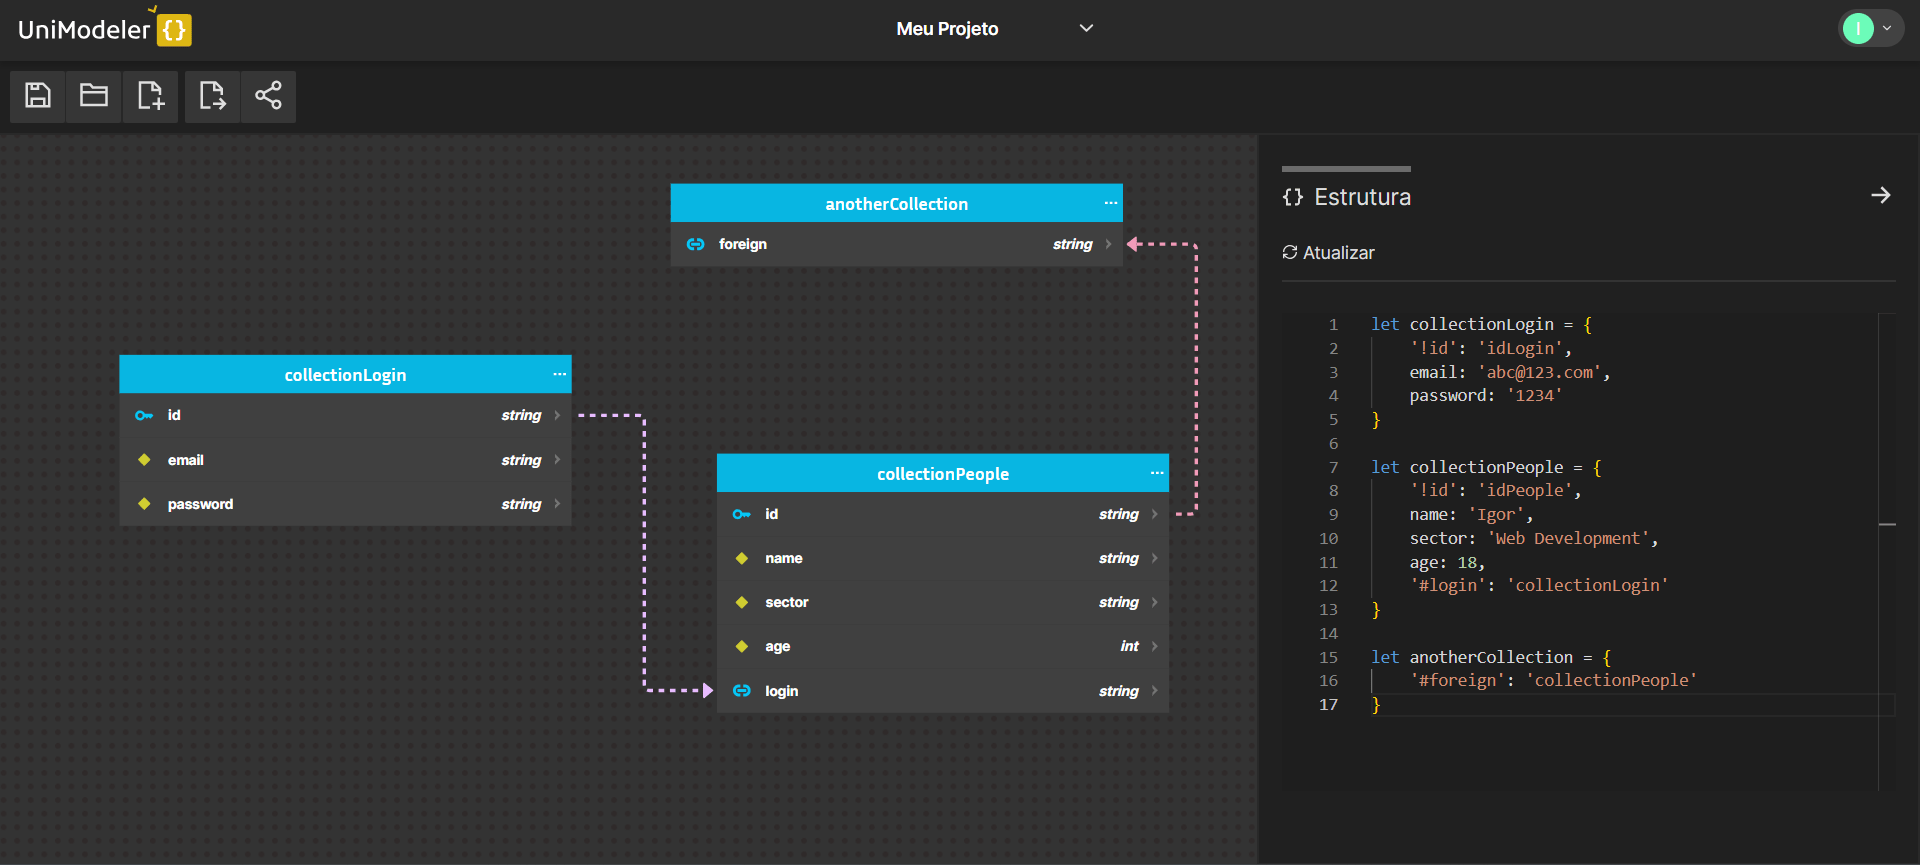
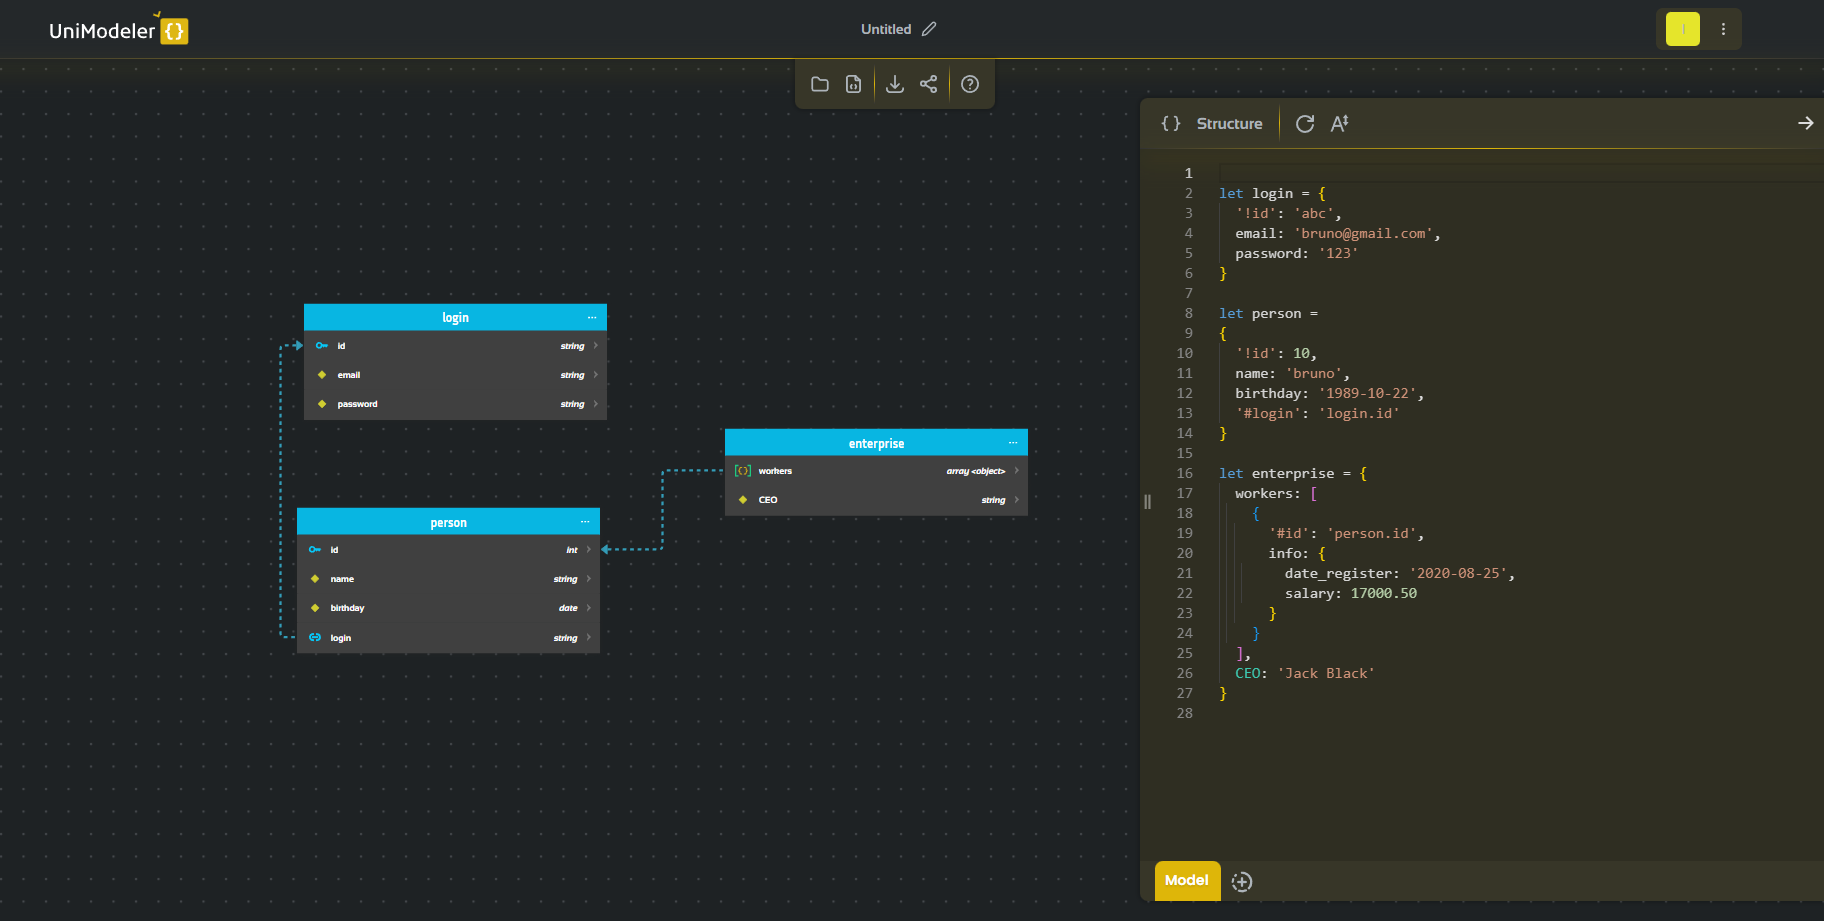
atualizando informações

diff --git a/src/data/about-me-info/sections/professional/content/education/content.ts b/src/data/about-me-info/sections/professional/content/education/content.ts
@@ -6,15 +6,15 @@ const EducationContent: LanguageContent = {
         p1: "Desde o Ensino Fundamental, tenho desenvolvido gosto pela Matemática e pela Lógica. Durante meu ensino médio na E.E. Laerte Ramos de Carvalho, conquistei duas medalhas de bronze nas Olimpíadas Brasileiras de Matemática (1º e 3º anos).",
         p2: "Isto me motivou a buscar aprender a respeito da área de Computação, que sempre me interessou, pesquisando e fazendo cursos online como o CS50, o curso introdutório de Ciência da Computação de Harvard.",
         p3: "No terceiro ano do ensino médio, busquei ampliar meu conhecimento em programação por meio do curso de informática do Instituto Social Nossa Senhora de Fátima. Lá, aprendi a desenvolver sites e APIs, adquirindo conhecimentos fundamentais do desenvolvimento web.",
-        p4: "Atualmente, estou em busca de uma formação acadêmica que consolide e expanda meu conhecimento em desenvolvimento de software e das bases da Ciência da Computação. Para tanto, ingressei no curso de Análise e Desenvolvimento de Sistemas na Fatec, com previsão de término para agosto/2027." 
+        p4: "A fim de adquirir uma formação acadêmica sólida no mundo da tecnologia, em 2025 ingressei no curso de Ciências da Computação na Universidade de São Paulo, com previsão de término para dezembro/2028." 
     },
 
     en_us: {
         title: "Education",
-        p1: "Since elementary school, I have developed a liking for Mathematics and Logic. During my high school years at E.E. Laerte Ramos de Carvalho, I earned two bronze medals in the Brazilian Mathematics Olympiad (1st and 3rd years)",
-        p2: "This motivated me to pursue learning about the field of Computer Science, which has always interested me, by researching and taking online courses such as CS50, Harvard's introductory course in Computer Science.",
-        p3: "In the third year of high school, I sought to expand my programming knowledge through the computer course at Instituto Social Nossa Senhora de Fátima. There, I learned to develop websites and APIs, acquiring fundamental knowledge on web development.",
-        p4: "Currently, I am seeking an academic education that consolidates and expands my knowledge in software development and in the Computer Science foundations. To achieve this, I ingressed the Systems Analysis and Development course at Fatec, with completion prediction to august/2027." 
+        p1: "Since elementary school, I have developed a liking for Mathematics and Logic. During my high school years at E.E. Laerte Ramos de Carvalho, I earned two bronze medals in the Brazilian Mathematics Olympiad (1st and 3rd years).",
+        p2: "This motivated me to seek learning about the field of Computing, which has always interested me, by researching and taking online courses such as CS50, Harvard's introductory Computer Science course.",
+        p3: "In the third year of high school, I sought to expand my programming knowledge through the computer course at Instituto Social Nossa Senhora de Fátima. There, I learned to develop websites and APIs, acquiring fundamental knowledge of web development.",
+        p4: "In order to acquire a solid academic background in technology, in 2025 I enrolled in the Computer Science course at the University of São Paulo, with an expected graduation date of December 2028."
     }
 }
 

diff --git a/src/pages/home/index.scss b/src/pages/home/index.scss
@@ -40,7 +40,7 @@
             display: flex;
             flex-direction: column;
             text-align: left;
-            color: #E5E9F0;
+            color: #e5e9f0;
 
             p {
                 font-size: 18px;
@@ -52,9 +52,30 @@
                 font-weight: 400;
             }
 
-            h2 {
-                font-size: 32px;
-                color: #4D5BCE;
+            table {
+                max-width: 600px;
+
+                td:first-child {
+                    text-align: end;
+                    vertical-align: top;
+                    padding-right: 5px;
+                }
+
+                .title1 {
+                    font-size: 32px;
+                    color: #4d5bce;
+                    font-weight: 600;
+                    
+                    td {
+                        padding-bottom: 10px;
+                    }
+                }
+
+                .title2 {
+                    color: #919191;
+                    font-weight: 600;
+                    font-size: 18px;
+                }
             }
 
             .comment {
@@ -72,15 +93,15 @@
                 }
 
                 .const {
-                    color: #4D5BCE;
+                    color: #4d5bce;
                 }
 
                 .name {
-                    color: #43D9AD;
+                    color: #43d9ad;
                 }
 
                 .value {
-                    color: #E99287;
+                    color: #e99287;
                     transition: 0.2s;
 
                     &:hover {
@@ -96,6 +117,12 @@
                 }
             }
 
+            @media (max-width: 600px) {
+                table .title1 {
+                    font-size: 24px;
+                }
+            }
+
             @media (max-width: 500px) {
                 h1 {
                     font-size: 42px;
@@ -108,7 +135,7 @@
                 .comment {
                     font-size: 14px;
                 }
-                
+
                 .variable {
                     font-size: 14px;
                 }
@@ -118,10 +145,6 @@
                 h1 {
                     font-size: 36px;
                 }
-
-                h2 {
-                    font-size: 24px;
-                }
             }
         }
     }
@@ -130,10 +153,10 @@
         img {
             border-radius: 10000px;
             box-shadow: 0 0 10px 4px rgba($color: #ffffff, $alpha: 0.2);
-            
+
             width: clamp(350px, 30vw, 400px);
 
-            @media(max-width: 500px) {
+            @media (max-width: 500px) {
                 width: clamp(280px, 62vw, 350px);
             }
         }
@@ -142,7 +165,6 @@
 
 @media (max-width: 900px) {
     .home {
-
         background-position: center bottom;
 
         .content {
@@ -154,12 +176,16 @@
         .text {
             gap: 30px;
 
-            >div {
+            > div {
                 text-align: center;
 
                 span {
                     overflow-wrap: break-word;
                     text-wrap: wrap;
+                }
+
+                table td:first-child {
+                    display: none;
                 }
             }
         }

diff --git a/src/data/about-me-info/sections/personal/content/who-i-am/content.ts b/src/data/about-me-info/sections/personal/content/who-i-am/content.ts
@@ -3,16 +3,16 @@ import { LanguageContent } from "../../../../../../context";
 const WhoContent: LanguageContent = {
     pt_br: {
         title: "Quem sou eu?",
-        p1: "Olá! Me chamo Igor Nascimento, tenho 18 anos e, além de minha paixão pela tecnologia e desenvolvimento de software, tenho uma variedade de interesses e experiências que moldam quem sou fora do mundo profissional.",
-        p2: "Antes de qualquer outra coisa, sou um jovem cristão. Os valores que me guiam são a fé, a humildade e a busca por sabedoria, glorificando a Deus antes e acima de tudo.",
-        p3: "Algo que me ensinou a importância da disciplina diária para alcançar quaisquer objetivos foi aprender a tocar piano, desde os meus 12 anos; inclusive tocando na igreja. É algo que contribuiu muito para o que sou hoje.",
+        p1: "Olá! Me chamo Igor Nascimento, tenho 19 anos e, além de minha paixão pela tecnologia e desenvolvimento de software, tenho uma variedade de interesses e experiências que moldam quem sou fora do mundo profissional.",
+        p2: "Antes de qualquer outra coisa, sou um jovem cristão. Os valores que me guiam são a fé, a humildade e a busca por sabedoria, glorificando a Deus acima de tudo.",
+        p3: "Algo que me ensinou a importância da disciplina diária para alcançar quaisquer objetivos foi aprender a tocar piano, desde os meus 12 anos; inclusive tocando na igreja.",
         p4: "Sou alguém que ama aprender novas coisas e espero poder contribuir, por meio da tecnologia, para suprir as necessidades das pessoas."
     },
     en_us: {
         title: "Who am I?",
-        p1: "Hello! My name is Igor Nascimento, I'm 18 years old and, besides my passion for technology and software development, I have a variety of interests and experiences that shape who I am outside the professional world.",
-        p2: "Above all, I am a Christian. The values that guide me are faith, humility, and the pursuit of wisdom, glorying God before and beyond everything else.",
-        p3: "Something that has taught me the importance of daily discipline to achieve any objectives is learning to play the piano, since my 12 years; including playing in the church. That is something that has contributed greatly to what I am today.",
+        p1: "Hello! My name is Igor Nascimento, I'm 19 years old and, besides my passion for technology and software development, I have a variety of interests and experiences that shape who I am outside the professional world.",
+        p2: "Above all, I am a Christian. The values that guide me are faith, humility, and the pursuit of wisdom, glorying God beyond everything else.",
+        p3: "Something that has taught me the importance of daily discipline to achieve any objectives is learning to play the piano, since my 12 years; including playing in the church.",
         p4: "I am someone that loves learning things and I hope I can contribute, through technology, to meeting people's needs."
     }
 }

diff --git a/src/data/about-me-info/sections/professional/content/presentation/content.ts b/src/data/about-me-info/sections/professional/content/presentation/content.ts
@@ -3,19 +3,15 @@ import { LanguageContent } from "../../../../../../context";
 const PresentationContent: LanguageContent = {
     pt_br: {
         title: "Apresentação",
-        p1: "Sou Igor Nascimento, um entusiasta da computação dedicado a aprender e a transformar ideias em realidade digital. Embora ainda não tenha experiência profissional, minha jornada no mundo da programação tem sido marcada por contínuo aprendizado e busca por desafios.",
-        p2_part1: "Atualmente, dedico meu tempo ao estudo autodidata e à criação de projetos para exercitar os conhecimentos adquiridos. Tenho me dedicado a aprender as bases da computação; focando em linguagens de baixo nível, como Java. E ",
-        p2_highlight: "estou buscando o meu primeiro emprego ",
-        p2_part2: "como aprendiz de TI; tendo conhecimentos em desenvolvimento WEB, de APIs em JavaScript e de bancos de dados relacionais e não-relacionais (MySQL e MongoDB), além de montagem de computadores e o básico de configuração de redes.",
+        p1: "Sou Igor Nascimento, um estudante de Ciência da Computação na Universidade de São Paulo, dedicado a aprender e a transformar ideias em realidade digital.",
+        p2: "Atualmente, dedico meu tempo ao estudo na Universidade e à participação em alguns projetos de tecnologia, tanto pessoais quanto profissionais.",
         p3: "Se você estiver interessado em colaborar em projetos ou simplesmente deseja uma conversa profissional, não hesite em entrar em contato."
     },
 
     en_us: {
         title: "Presentation",
-        p1: "I am Igor Nascimento, a computer enthusiast dedicated to learning and turning ideas into digital reality. Although I don't have professional experience yet, my journey in the programming world has been marked by continuous learning and the pursuit of challenges.",
-        p2_part1: "Currently, I dedicate my time to self-study and project creation to practice the knowledge I've acquired. I have been focusing on learning the fundamentals of computing, with a focus on low-level languages like Java. And ",
-        p2_highlight: "I am seeking my first job ",
-        p2_part2: "as an IT apprentice, since I have knowledge on development of websites and JavaScript APIs, relational and non-relational databases (MySQL and MongoDB), as well as computer assembly and basic network configuration.",
+        p1: "I am Igor Nascimento, a Computer Science student at the University of São Paulo, dedicated to learning and turning ideas into digital reality.",
+        p2: "Currently, I dedicate my time to studying at the university and participating in some technology projects, both personal and professional.",
         p3: "If you are interested in collaborating on projects or simply want to have a professional conversation, feel free to contact me."
     },
 }

diff --git a/src/pages/home/index.tsx b/src/pages/home/index.tsx
@@ -18,7 +18,17 @@ export default function Home(props: { setCurrentLanguage: React.Dispatch<React.S
                         <div>
                             <p>{HomeContent[language].p_saudation}</p>
                             <h1>Igor Nascimento</h1>
-                            <h2>&gt; {HomeContent[language].title}</h2>
+                            <table>
+                                <tr className='title1'>
+                                    <td>&gt;</td>
+                                    <td>{HomeContent[language].title1}</td>
+                                </tr>
+
+                                <tr className='title2'>
+                                    <td>&gt;</td>
+                                    <td>{HomeContent[language].title2}</td>
+                                </tr>
+                            </table>
                         </div>
 
                         <div>

diff --git a/src/data/projects-info/projects/unimodeler.ts b/src/data/projects-info/projects/unimodeler.ts
@@ -9,6 +9,7 @@ const UniModelerProject: Project = {
         en_us: "UniModeler is a database modeler, focused on modeling for MongoDB. \n In it, each Collection is defined in the text editor as a JavaScript object. The properties of this object will be considered as the properties of the Document that this Collection will receive. Through the text editor, it is possible to add sub-documents, create references between Collections by defining primary and foreign keys, etc. \n To develop this application, I employed knowledge acquired in AST (to read the collections defined in the text editor) and in the ReactFlow library (to create the visual layout of the collections)."
     },
     coverImage: "unimodeler.png",
+    siteURL: "https://unimodeler.dev",
     techs: [
         Tech.REACT,
         Tech.MONGODB,

diff --git a/src/pages/home/content.ts b/src/pages/home/content.ts
@@ -3,13 +3,15 @@ import { LanguageContent } from "../../context";
 const HomeContent: LanguageContent = {
     pt_br: {
         p_saudation: "Olá! Meu nome é",
-        title: "Desenvolvedor Web",
+        title1: "Bacharelando em Ciência da Computação",
+        title2: "Universidade de São Paulo",
         p_github: "você também pode ver esta página no meu Github"
     },
 
     en_us: {
-        p_saudation: "Hello there. My name is",
-        title: "Web Developer",
+        p_saudation: "Hello there! My name is",
+        title1: "Computer Science Graduating",
+        title2: "University of São Paulo",
         p_github: "you can also see this page on my Github"
     }
 }

diff --git a/src/data/about-me-info/sections/professional/content/presentation/index.tsx b/src/data/about-me-info/sections/professional/content/presentation/index.tsx
@@ -13,9 +13,7 @@ export default function Presentation() {
             <p>{PresentationContent[language].p1}</p>
 
             <p>
-                {PresentationContent[language].p2_part1}
-                <strong>{PresentationContent[language].p2_highlight}</strong>
-                {PresentationContent[language].p2_part2}
+                {PresentationContent[language].p2}
             </p>
 
             <p>{PresentationContent[language].p3}</p>
